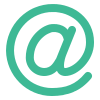
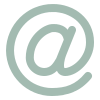
Design changes of sharing buttons

diff --git a/src/overview/components/ShareButtons.css b/src/overview/components/ShareButtons.css
@@ -32,7 +32,7 @@
     text-decoration: none;
     position: absolute;
     color: #fff;
-    background-color: #3eb995;
+    background-color: #3eb99587;
     transform: rotate(90deg);
     margin-top: 100px;
     margin-left: -13px;
@@ -69,7 +69,7 @@ a {
 }
 
 .chatBox {
-    margin-top: 165px;
+    margin-top: 175px;
     text-decoration: none;
 }
 

diff --git a/src/overview/components/tooltips.js b/src/overview/components/tooltips.js
@@ -14,7 +14,6 @@ const tooltips = [
         description:
             'Try typing "<b><i>2 weeks ago</i></b>" into the date picker field.',
     },
-
     {
         title: 'Sometimes a simple restart helps',
         description:
